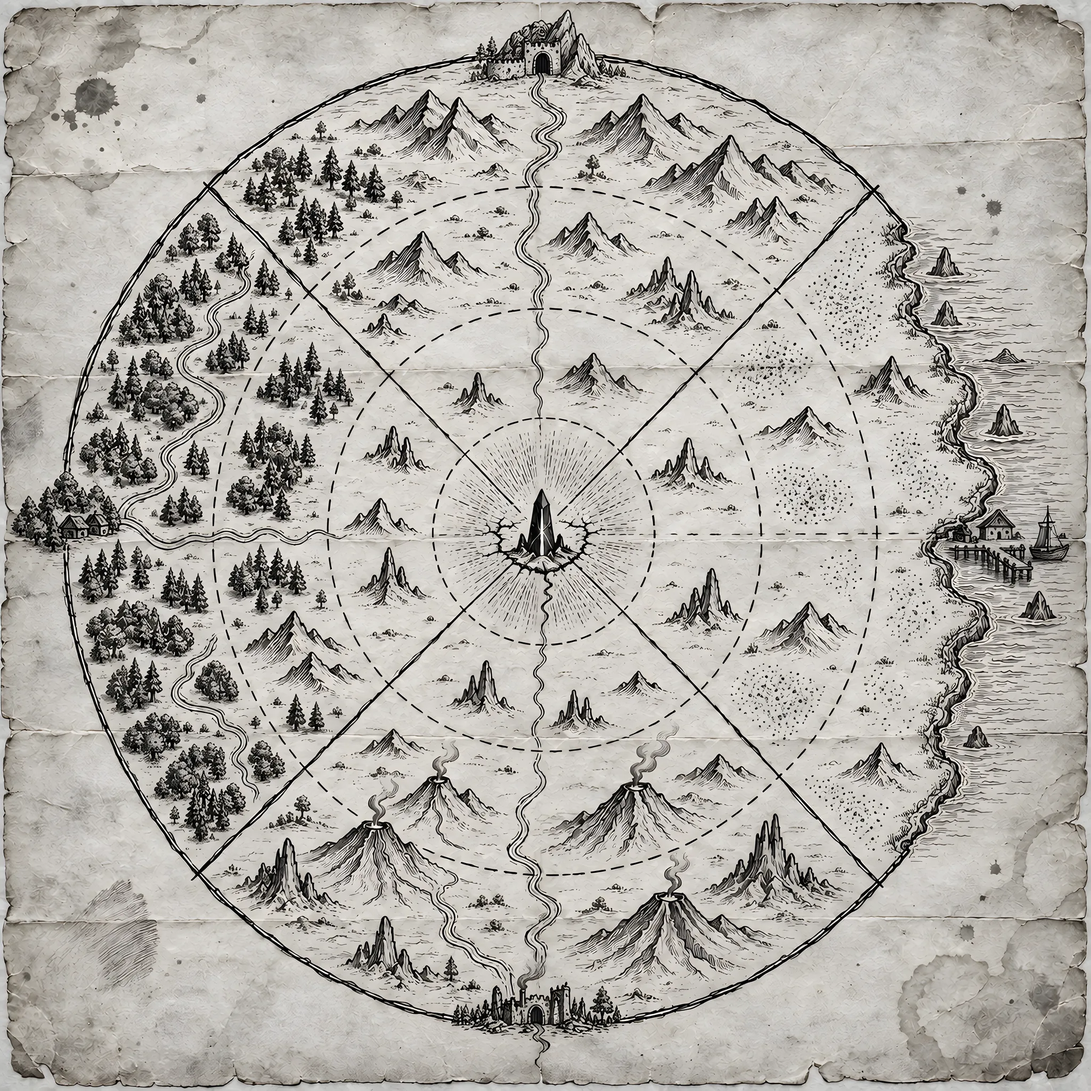
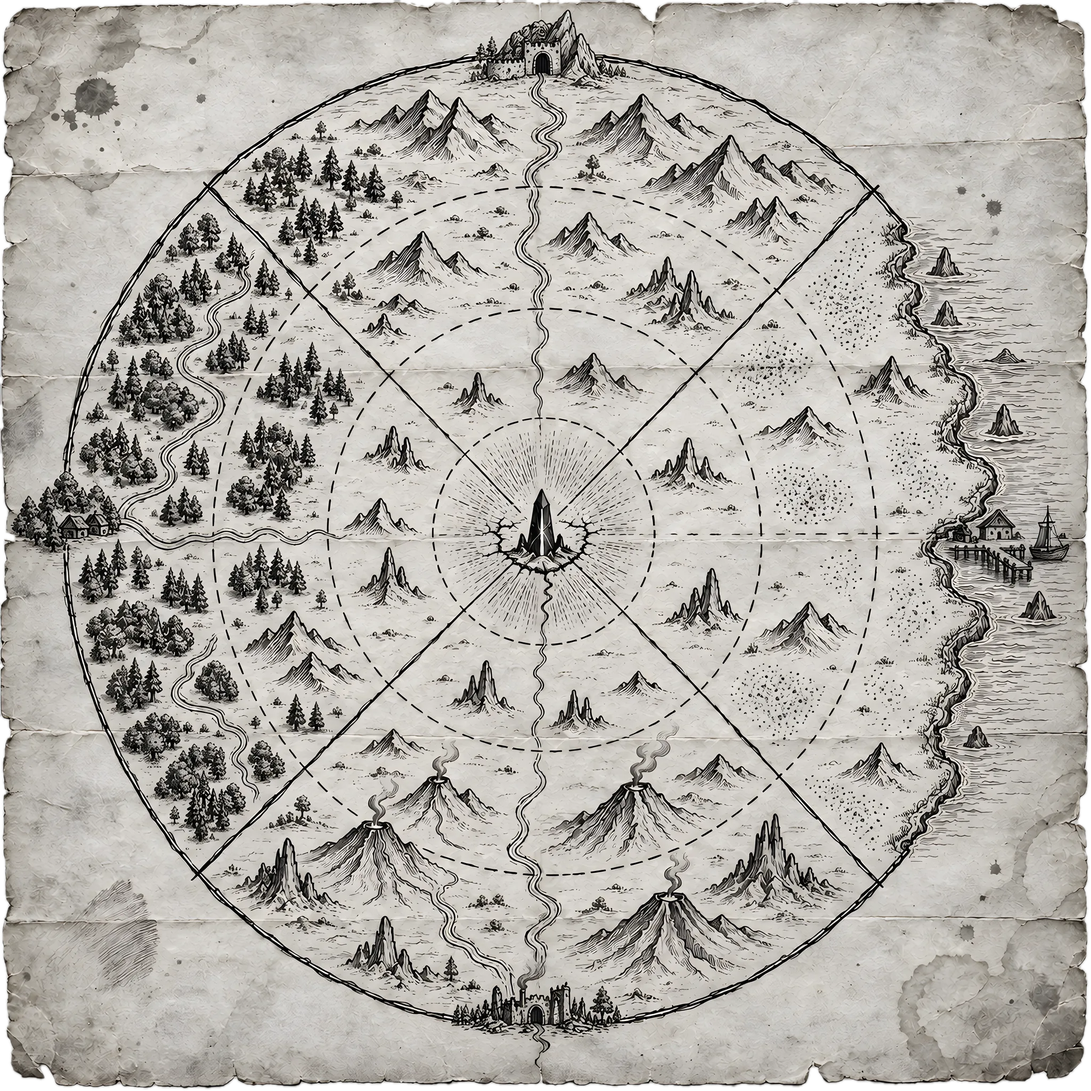
Карта: прозрачность за рваными краями бумаги
Фон исходника за кромкой вырезан маской (заливка от краёв по гладким светлым пикселям, край внутрь на 2 px, мягкий переход). Под линзой - тёмная подложка.

diff --git a/miniapp/src/index.css b/miniapp/src/index.css
@@ -537,7 +537,9 @@ body {
   inset: 0;
   border-radius: 50%;
   overflow: hidden;
-  background: #d9d2c3;
+  /* Тёмная, а не цвета пергамента: за рваным краем карты прозрачно, и
+     светлая заливка выглядела бы продолжением бумаги. */
+  background: #17181b;
   /* Край стекла темнее середины - как у настоящей линзы. */
   box-shadow: inset 0 0 22px 6px rgba(20, 12, 8, 0.45);
 }
